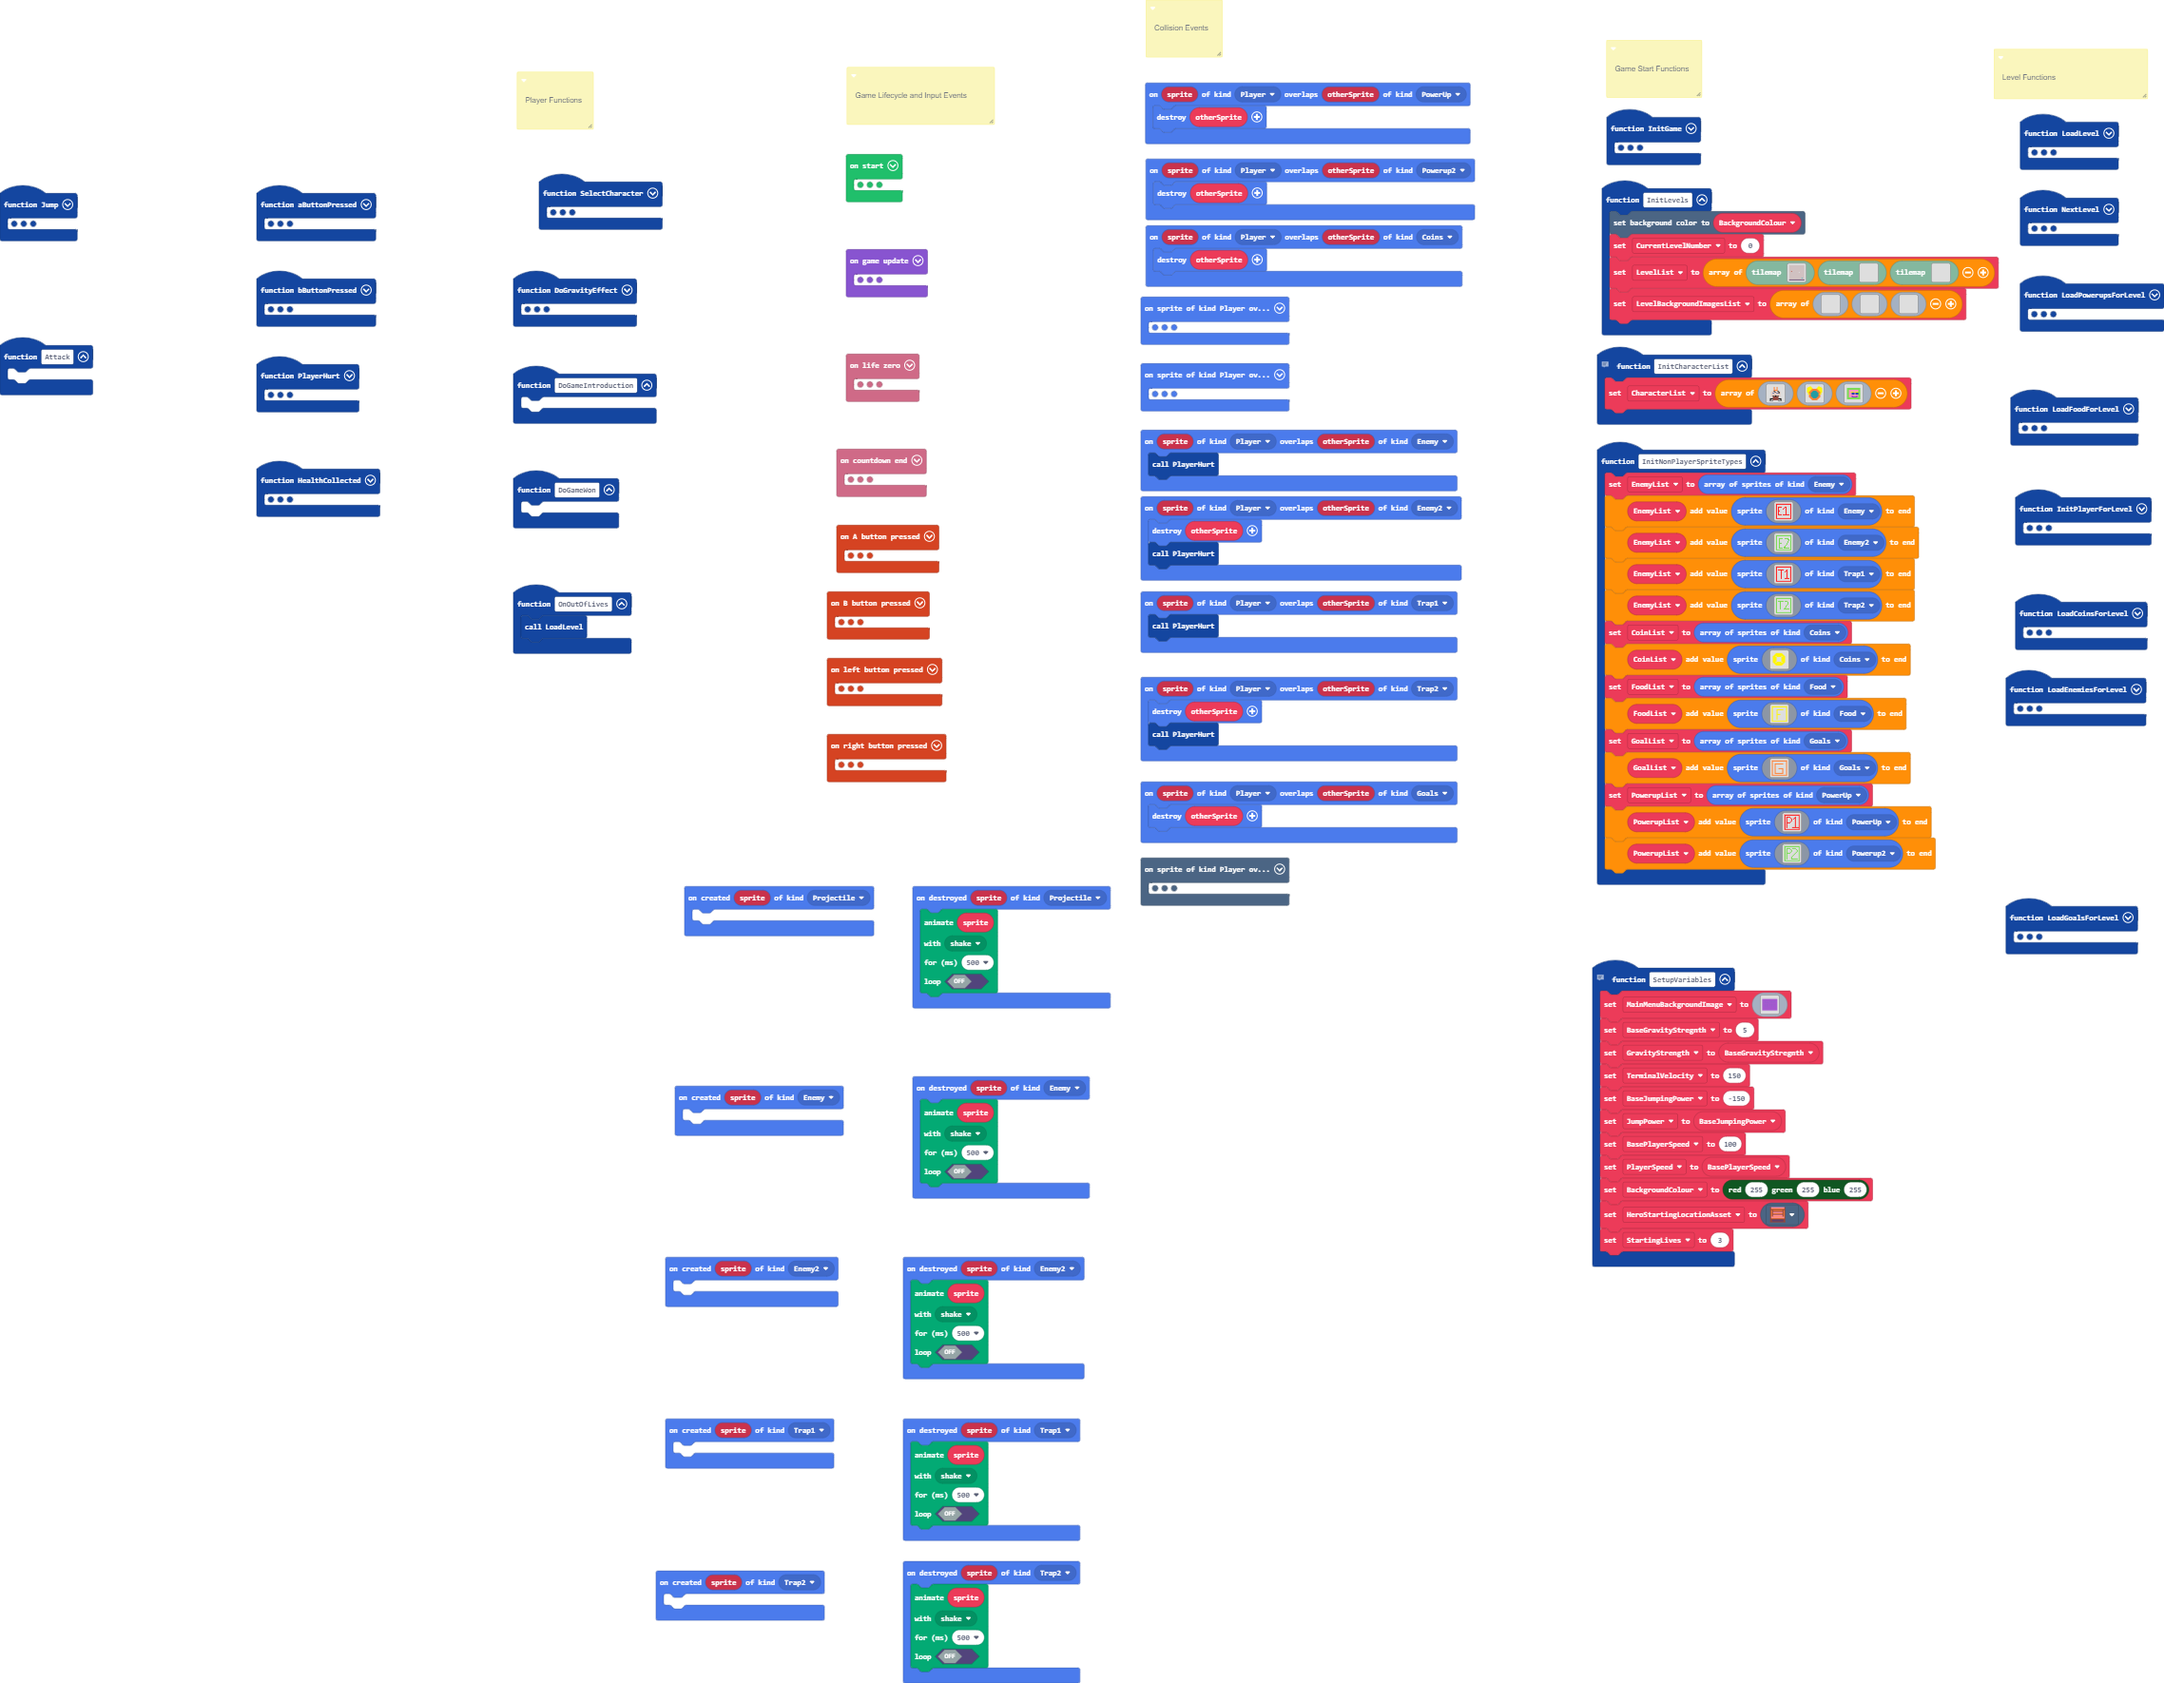
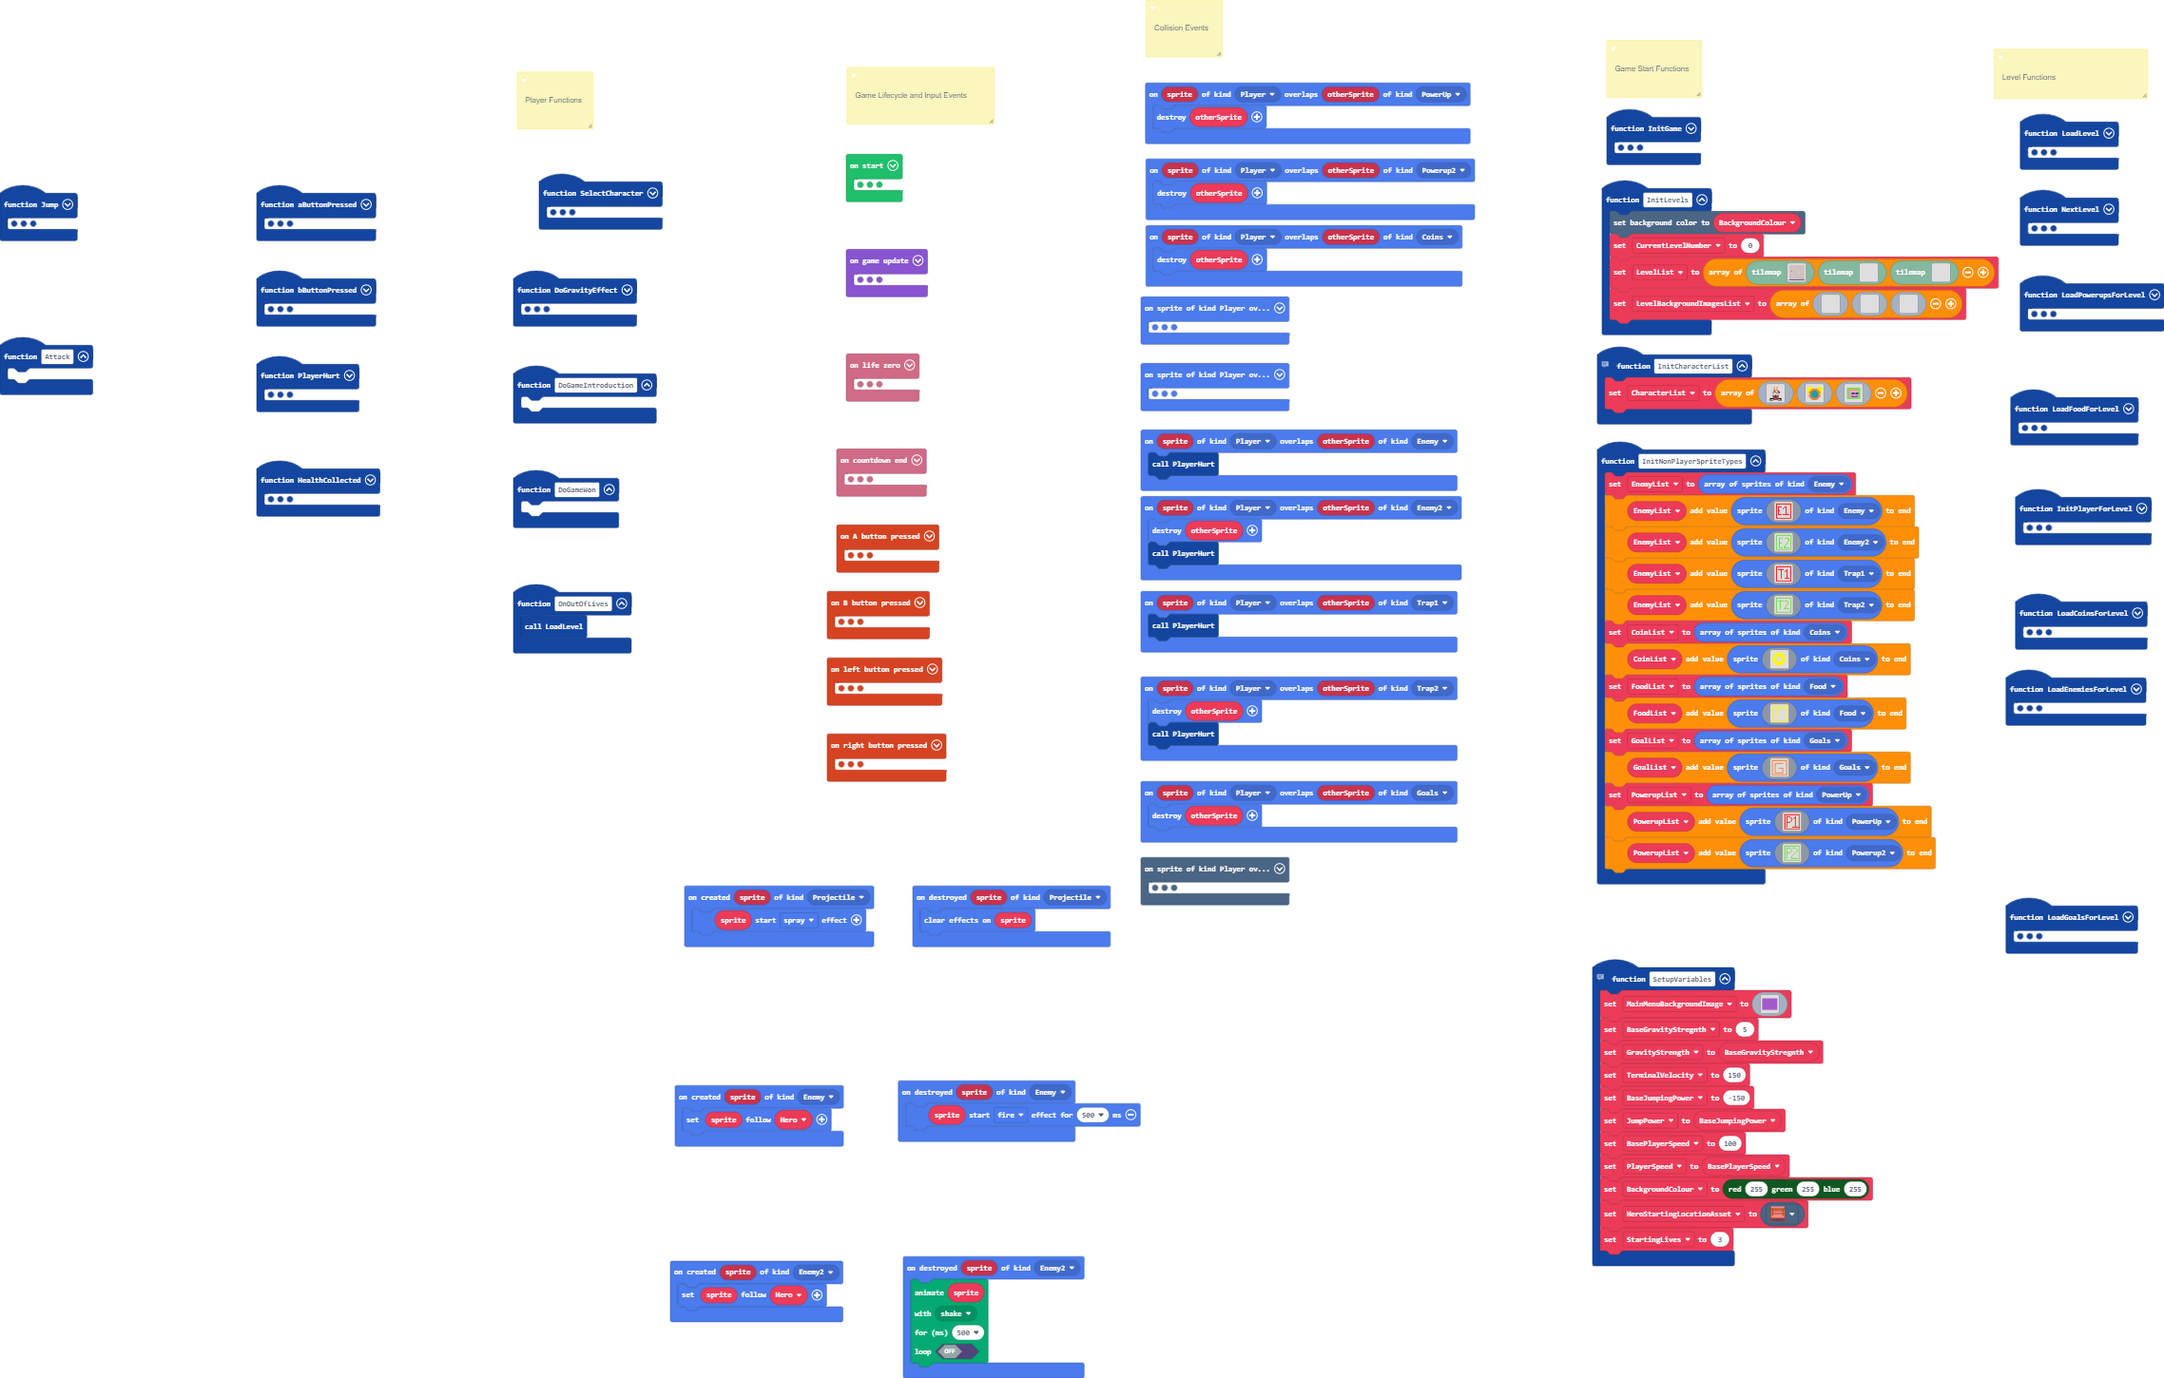
Removed unnecessary on destroy events, and cleaned up animations on others.  Enemies now follow hero.

diff --git a/main.ts b/main.ts
@@ -22,7 +22,7 @@ namespace SpriteKind {
  * Level Functions
  */
 sprites.onCreated(SpriteKind.Enemy, function (sprite) {
-	
+    sprite.follow(Hero)
 })
 // Level Functions
 function bButtonPressed () {
@@ -35,17 +35,6 @@ function Attack () {
 function InitCharacterList () {
     CharacterList = [assets.image`HeroOption1`, assets.image`HeroOption2`, assets.image`HeroOption3`]
 }
-sprites.onDestroyed(SpriteKind.Trap2, function (sprite) {
-    animation.runMovementAnimation(
-    sprite,
-    animation.animationPresets(animation.shake),
-    500,
-    false
-    )
-})
-sprites.onCreated(SpriteKind.Trap1, function (sprite) {
-	
-})
 controller.B.onEvent(ControllerButtonEvent.Pressed, function () {
     bButtonPressed()
 })
@@ -440,14 +429,6 @@ controller.A.onEvent(ControllerButtonEvent.Pressed, function () {
         aButtonPressed()
     }
 })
-sprites.onDestroyed(SpriteKind.Trap1, function (sprite) {
-    animation.runMovementAnimation(
-    sprite,
-    animation.animationPresets(animation.shake),
-    500,
-    false
-    )
-})
 function LoadLevel () {
     if (CurrentLevelNumber >= LevelList.length - 1) {
         DoGameWon()
@@ -614,7 +595,7 @@ function LoadPowerupsForLevel () {
     tiles.createSpritesOnTiles(assets.tile`Powerup2Location`, SpriteKind.Powerup2)
 }
 sprites.onCreated(SpriteKind.Enemy2, function (sprite) {
-	
+    sprite.follow(Hero)
 })
 info.onCountdownEnd(function () {
     Hero.setFlag(SpriteFlag.GhostThroughSprites, false)
@@ -698,9 +679,6 @@ function DoGravityEffect () {
 }
 sprites.onOverlap(SpriteKind.Player, SpriteKind.Trap1, function (sprite, otherSprite) {
     PlayerHurt()
-})
-sprites.onCreated(SpriteKind.Trap2, function (sprite) {
-	
 })
 function DoGameWon () {
 	
@@ -906,7 +884,7 @@ sprites.onOverlap(SpriteKind.Player, SpriteKind.Coins, function (sprite, otherSp
     otherSprite.destroy()
 })
 sprites.onCreated(SpriteKind.Projectile, function (sprite) {
-	
+    sprite.startEffect(effects.spray)
 })
 /**
  * Game Start Functions
@@ -921,20 +899,10 @@ function InitGame () {
     SelectCharacter()
 }
 sprites.onDestroyed(SpriteKind.Enemy, function (sprite) {
-    animation.runMovementAnimation(
-    sprite,
-    animation.animationPresets(animation.shake),
-    500,
-    false
-    )
+    sprite.startEffect(effects.fire, 500)
 })
 sprites.onDestroyed(SpriteKind.Projectile, function (sprite) {
-    animation.runMovementAnimation(
-    sprite,
-    animation.animationPresets(animation.shake),
-    500,
-    false
-    )
+    effects.clearParticles(sprite)
 })
 scene.onOverlapTile(SpriteKind.Player, sprites.dungeon.collectibleInsignia, function (sprite, location) {
     NextLevel()
@@ -964,8 +932,8 @@ let LevelList: tiles.WorldMap[] = []
 let CurrentLevelNumber = 0
 let BackgroundColour = 0
 let HeroStartingLocationAsset: Image = null
-let Hero: Sprite = null
 let CharacterList: Image[] = []
+let Hero: Sprite = null
 InitGame()
 game.onUpdate(function () {
     DoGravityEffect()
